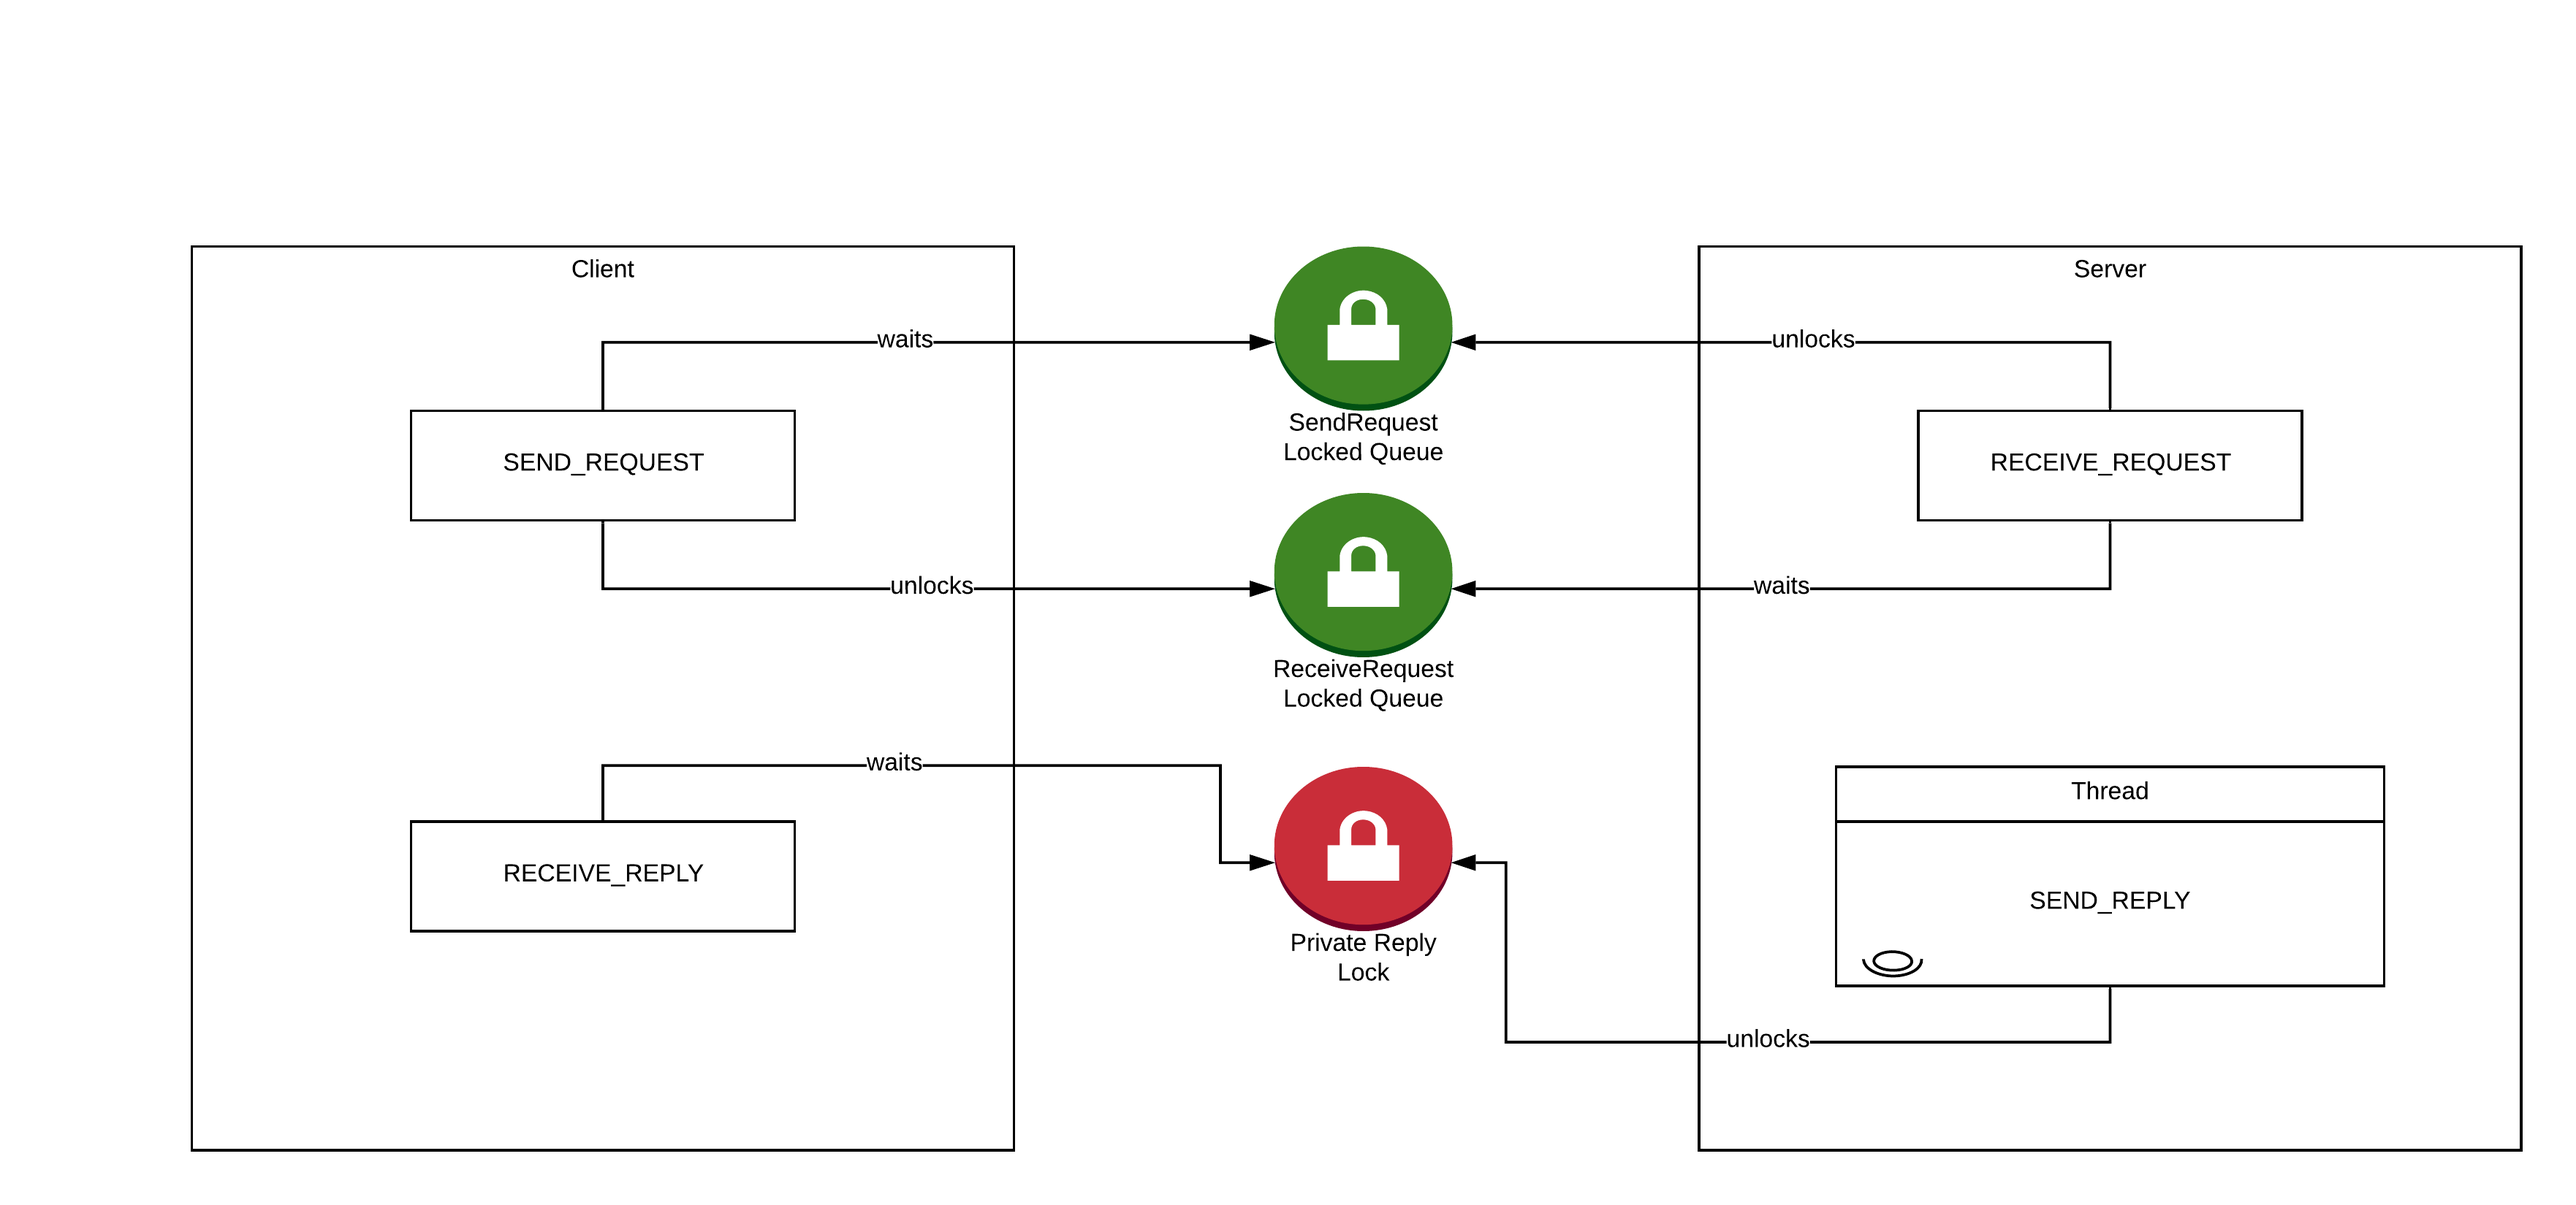
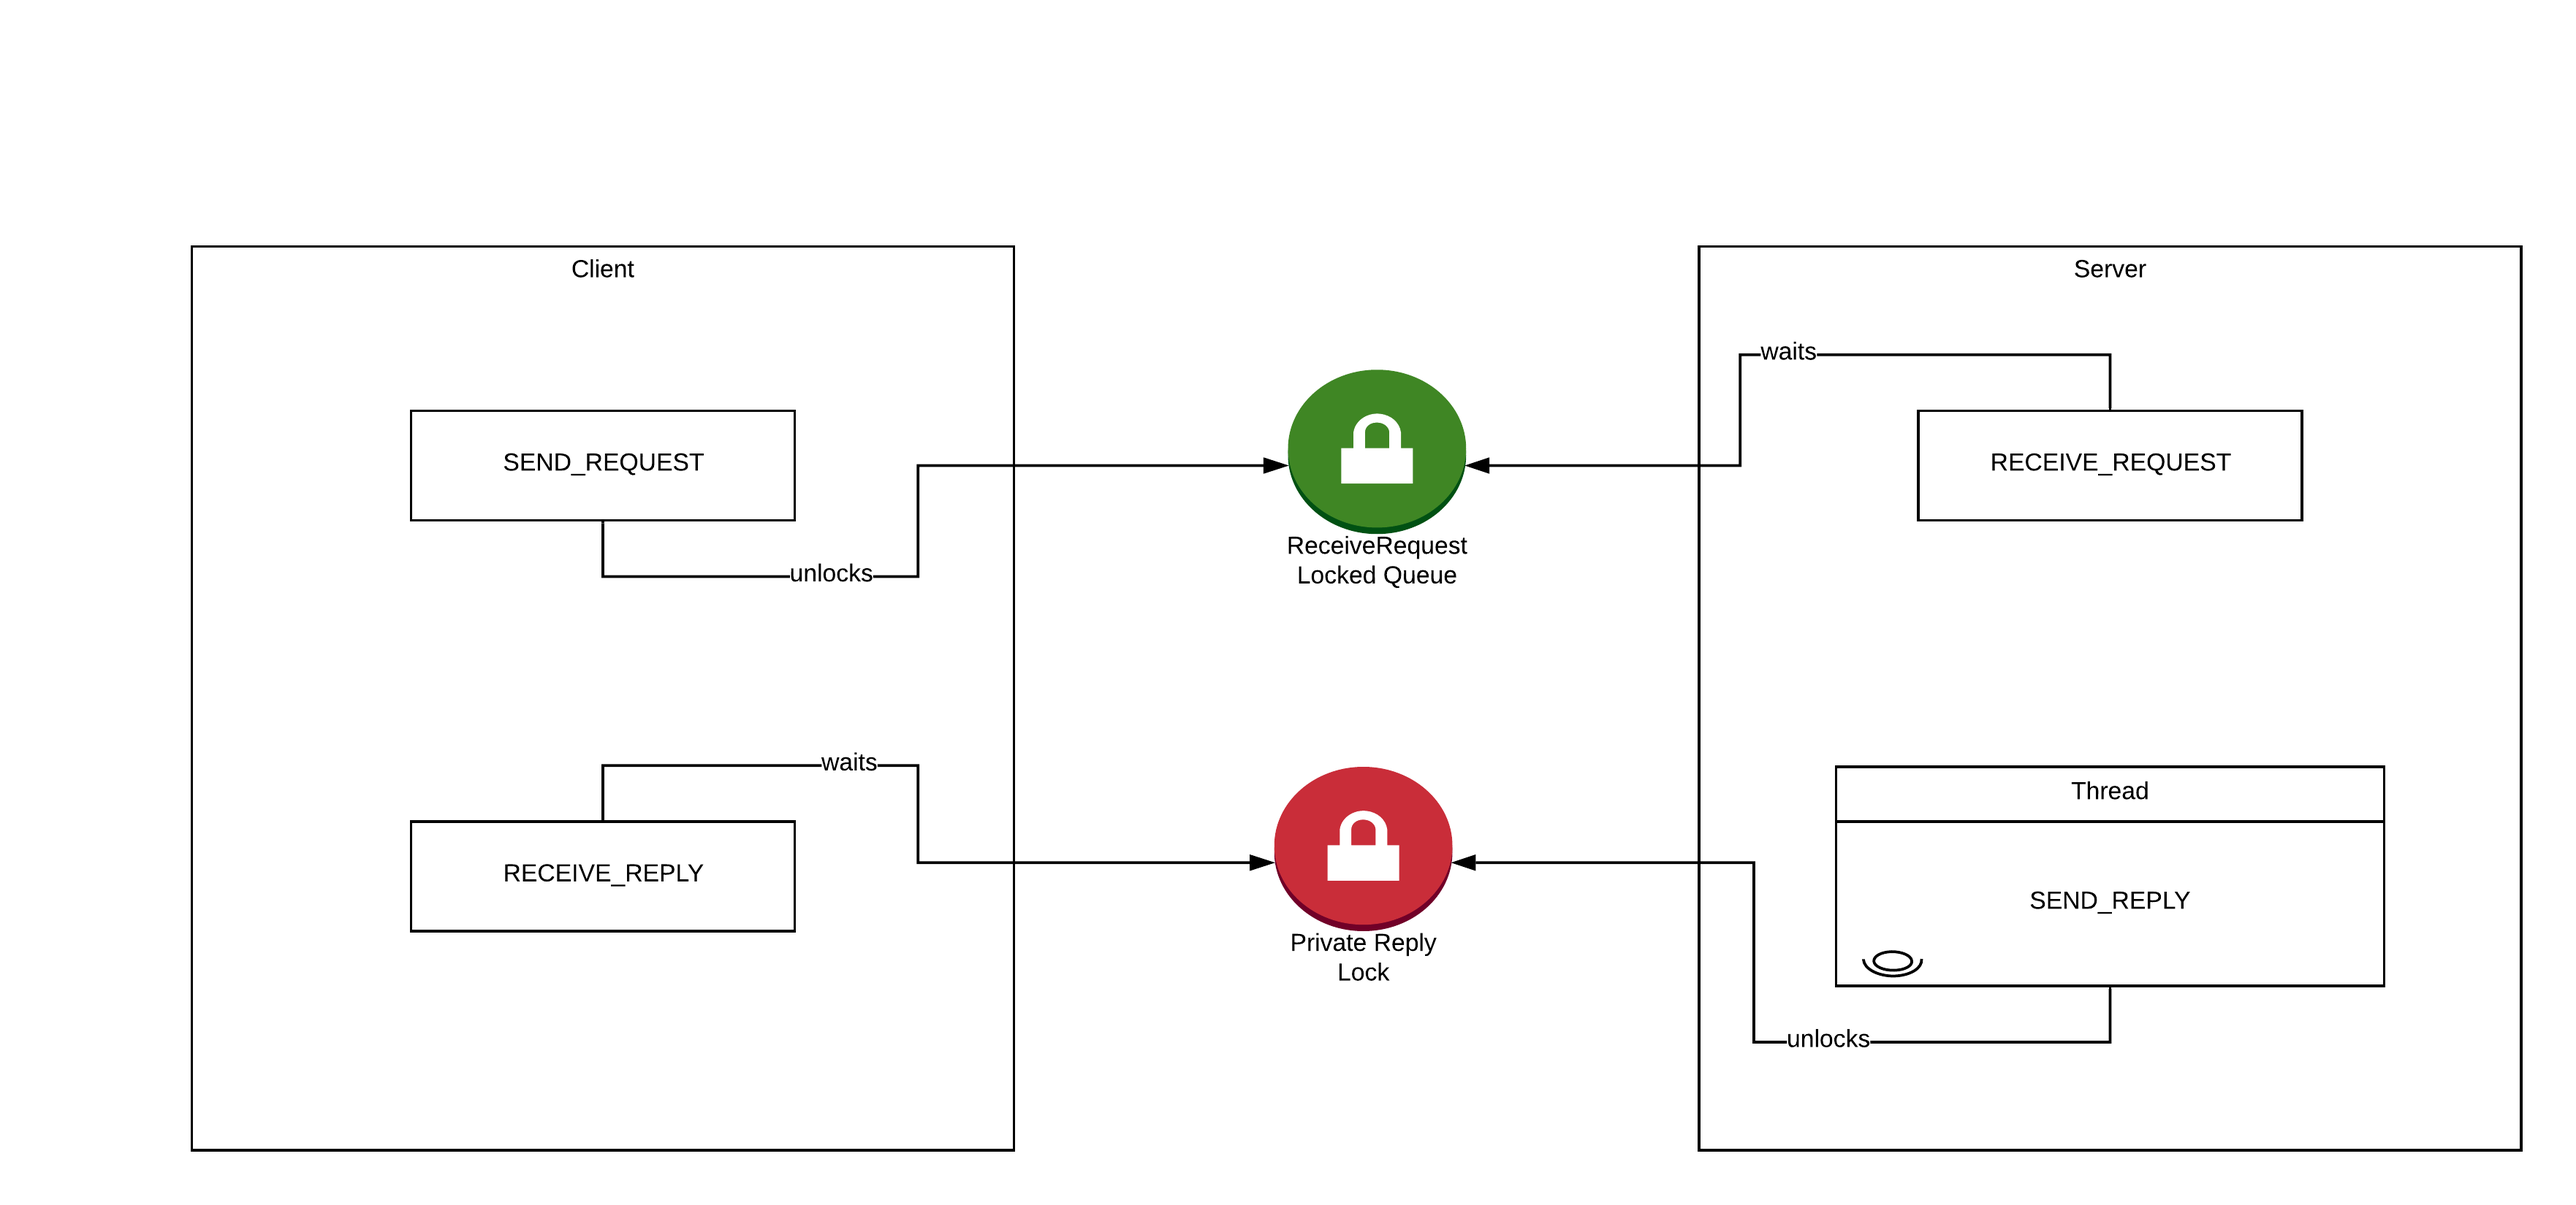
readme

diff --git a/projeto-2/README.md b/projeto-2/README.md
@@ -85,17 +85,75 @@ In the client program ***U***:
 
 ## Synchronization mechanisms
 
+To solve synchronization issues we opted to use one public semaphores (represented above by the colour green) and one private per request (represented above by the colour red), as show in the image below
+
 <img src="./images/sync_system.png" width="800px" align="center">
 
-To solve synchronization issues we opted to use two public semaphores (represented above by the color green) and one private (represented above by the color red).
+As the *FIFO*'s are opened with the flag `O_NONBLOCK` active, the `read` call returns immediately whether the *FIFO* has data or not (non blocking call) even if there is a process or thread with the *FIFO* open for writing. As for the `write` call, it will return error if there's no process or thread with the *FIFO* open for reading.
 
+Thus, we only need to synchronize the reading from *FIFO*, resulting on the scheme above.
+
+The public semaphore guarantees there is data in the *FIFO* before the server reads it, getting unlocked (using `sem_post`) by the client after writing the request, while the server waits for the semaphore to be unlocked (using `sem_wait`).
+On the other hand, the private semaphore is used to guarantee the client has data in the reply *FIFO* before reading it, the process is similar to the public semaphore, as the client waits for the semaphore to be unlocked by the server (the server unlocks it after trying to write the reply).
 
 ### Parsing
 To parse the arguments passed via the command line, it was created two parsing methods, one for the [client](./client/src/parse.c), the other for the [server](./server/src/parse.c), as they receive different arguments.
 
 The structure of the parsing system is similar in both cases, returning a bit mask to identify which flags were present on the arguments, and additional information, such as the path, is returned in the argument by using a structure to store the additional information needed such as the *FIFO* name, and in the server side, the *maximum number of threads* and the *bathroom capacity*.
 
-## Alarm
+## Alarms
 To determine how long each process will be running we set up one alarm in client and server.
-The process will then receive a signal SIGALRM when the elapsed time has equal to the time passed as argument.
+The process will then receive a signal `SIGALRM` when the elapsed time has equal to the time passed as argument.
 In the signal handler function, the one variable will be set to have the value 0, so the main loop will stop and the program will end.
+
+In order to stop the client from requesting after the server closes, it is sent by the first thread that identifies the public request FIFO as closed a `SIGALRM` signal to the main thread via `pthread_kill`, and the it is called `alarm(0)` to deactivate any active alarms on the process.
+
+## Protocol
+The requests and the replies have the same format, thus, it was created a single structure to handle both of them, [`request_t`](./shared/include/protocol.h).  
+The structure holds information of
+```c
+struct request {
+    int         id;     // Request / Reply ID
+    pid_t       pid;    // ID of the process
+    pthread_t   tid;    // ID of the thread
+    int         dur;    // duration of the bathroom usage
+    int         pl;     // number of order given by the server
+};
+```
+To fill the structure, the protocol provides three functions, one to fill the request, and two to fill replies
+
+Request fill, used by the client process
+```c
+int fill_request(request_t *request, int id, pid_t pid, pthread_t tid);
+
+Request - structure to be filled
+ID      - Request ID (decided by the client)
+PID     - Process ID (obtained via getpid())
+TID     - Thread  ID (obtained via pthread_self())
+DUR     - Duration is filled with a random value between 10ms and 1s
+PL      - There is no order number assigned, it is filled with -1
+```
+
+Reply fill, used by the server if it accepts the request
+```c
+int fill_reply(request_t *reply, int id, pid_t pid, pthread_t tid, int dur, int pl);
+
+Reply   - structure to be filled
+ID      - Reply ID (decided by the server)
+PID     - Process ID (obtained via getpid())
+TID     - Thread  ID (obtained via pthread_self())
+DUR     - Duration is the same as the request received
+PL      - Order number assigned by the server
+```
+
+Reply fill, used by the server if it rejects the request
+```c
+int fill_reply_error(request_t *reply, int id, pid_t pid, pthread_t tid);
+
+Reply   - structure to be filled
+ID      - Reply ID (decided by the server)
+PID     - Process ID (obtained via getpid())
+TID     - Thread  ID (obtained via pthread_self())
+DUR     - It is filled with -1
+PL      - It is filled with -1
+```
